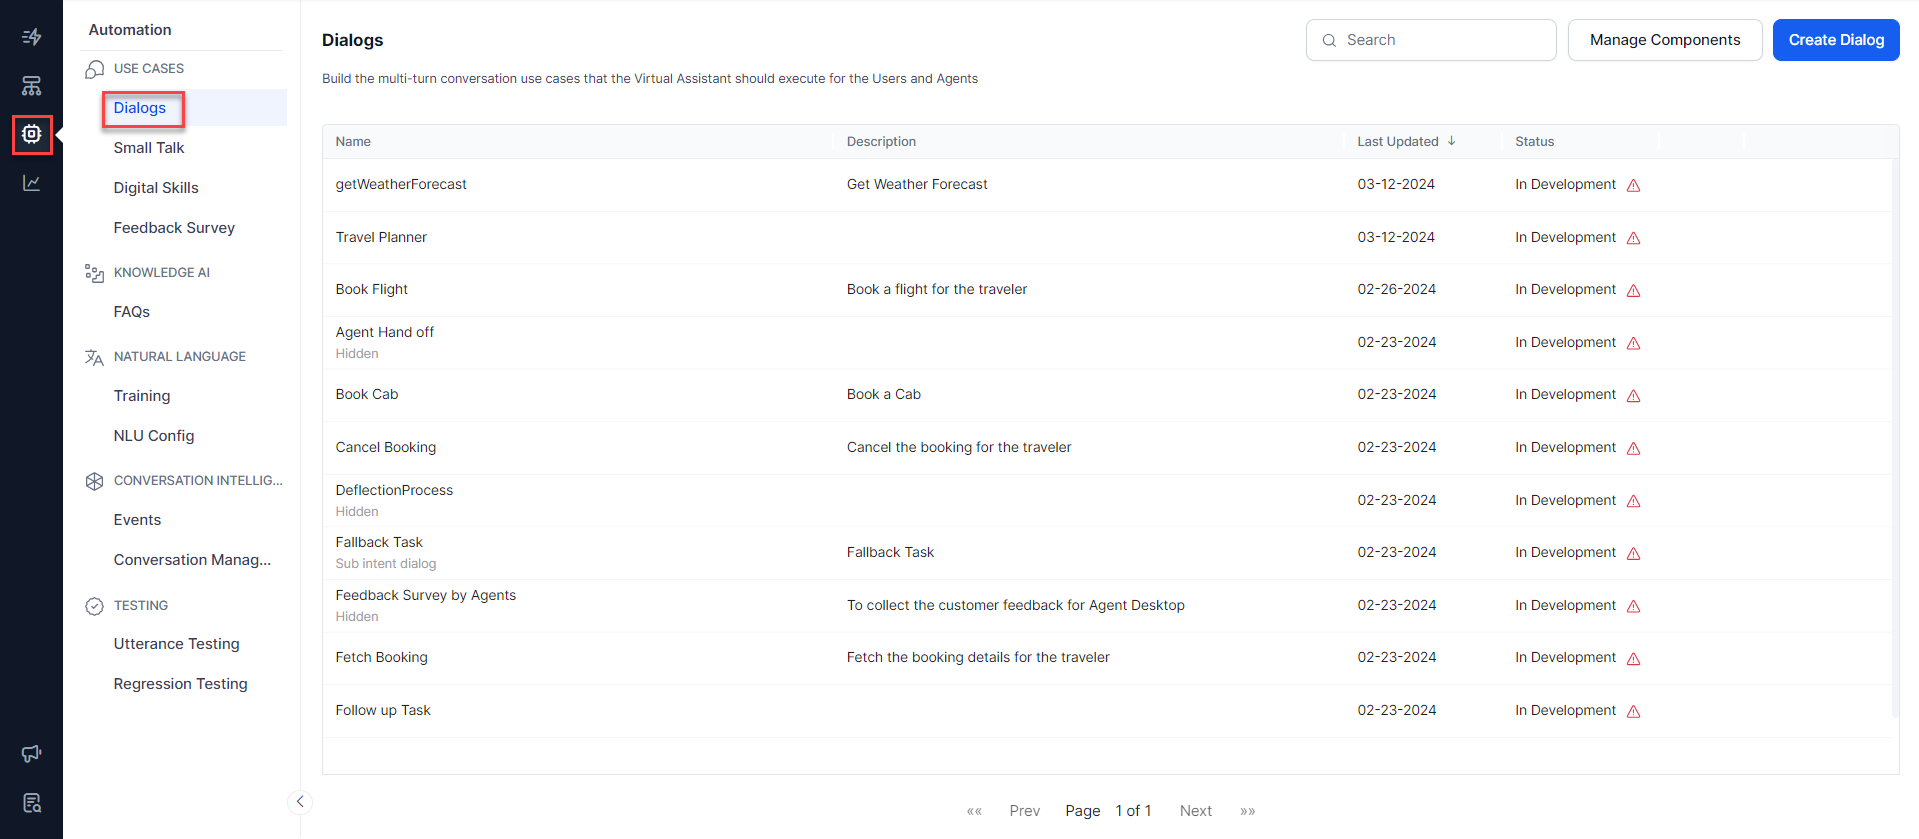
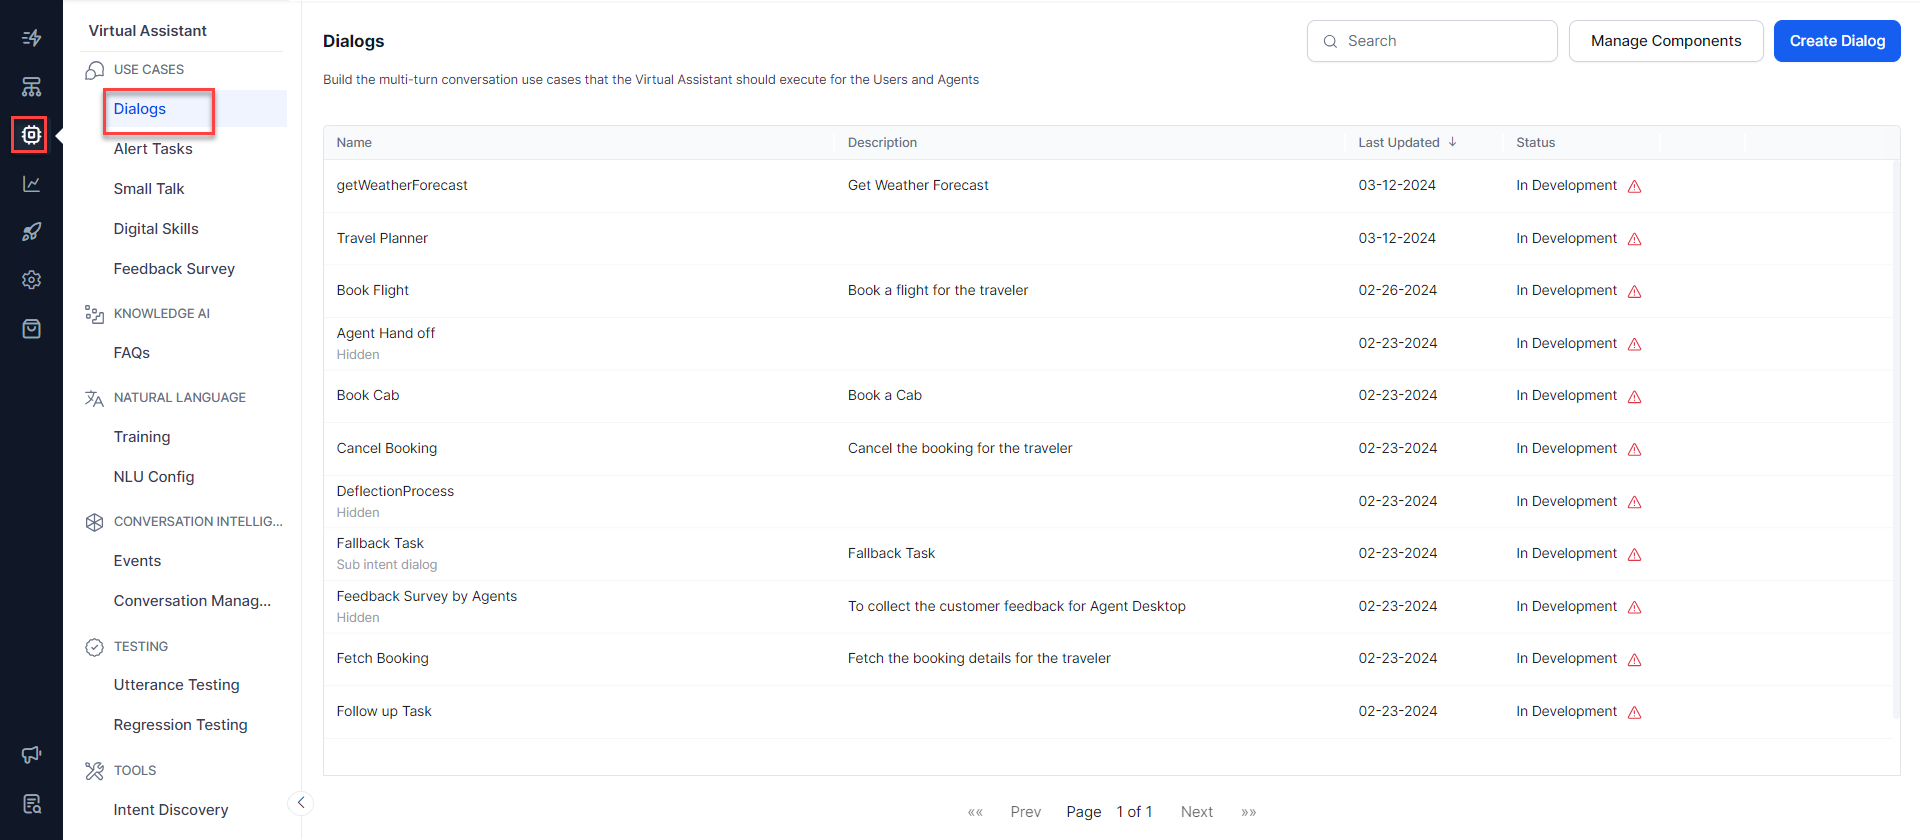
navigate dialog tasks

diff --git a/docs/xo/automation/use-cases/dialogs/navigating-dialog-tasks.md b/docs/xo/automation/use-cases/dialogs/navigating-dialog-tasks.md
@@ -27,7 +27,7 @@ Here are a few other ways in which the Dialog Builder can benefit your organizat
 
 ## Explore Dialog Tasks
 
-You can access Dialog Tasks from **Automation > USE CASES > Dialogs**.
+You can access Dialog Tasks from **Automation AI > Virtual Assistant > USE CASES > Dialogs**.
 
 <img src="../images/navigate-dialog.png" alt="Navigate to Dialogs" title="Navigate to Dialogs" style="border:1px solid gray; zoom:60%;">
 
@@ -66,8 +66,11 @@ In some scenarios, you may need to create two similar dialog tasks with minor di
 
 To clone a dialog task, follow the below steps:
 
-* **Open the VA** in which you want to clone the dialog task.
-* Select the **Automation** option from the left menu.
+* **Open the App** in which you want to clone the dialog task.
+* Select the **Automation AI > Virtual Assitant** option from the left menu.
+
+    <img src="../images/automationai-va-navigation.gif" alt="Navigate to Virtual Assistant" title="Navigate to Virtual Assistant" style="border:1px solid gray; zoom:60%;">
+    
 * From the left menu, click **USE CASES > Dialogs**.
 * On the Dialog Tasks page, hover over the dialog you want to clone and click the **Clone** icon.
 * On the **Clone a Dialog** window, enter a name in the **Intent Name** field.
